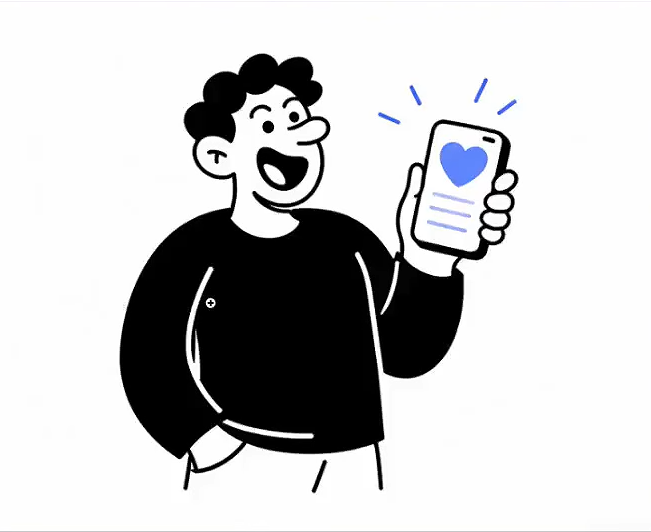
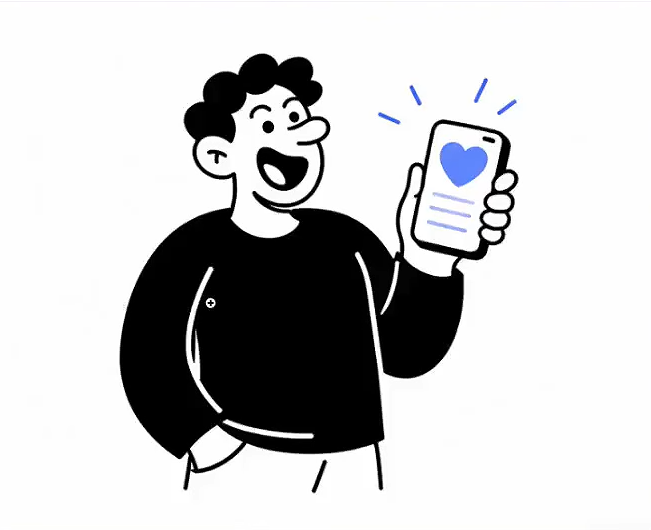
add readme

diff --git a/01)App-Login/app-login/src/app/signUp.tsx b/01)App-Login/app-login/src/app/signUp.tsx
@@ -6,15 +6,15 @@ import { Form } from "@/components/Form/Form"
 import { Footer } from "@/components/Footer/Footer"
 
 
-export default function Index ()  {
+export default function SignUp ()  {
 
 
     return(
-        <KeyboardAvoidingView style={{flex: 1}} behavior={Platform.select( { ios: "padding", android: "height"})}>
-            <ScrollView contentContainerStyle={{flexGrow:1, padding:20}} keyboardShouldPersistTaps="handled">
-                <Header img={signUpImg} />
+        <KeyboardAvoidingView style={styles.container} behavior={Platform.select( { ios: "padding", android: "height"})}>
+            <ScrollView contentContainerStyle={{flexGrow:1}} keyboardShouldPersistTaps="handled">
+                <Header img={signUpImg} type="signUp" />
                 <Form type="signUp" />
-                <Footer link="/" />
+                <Footer link="/" type="signUp" />
             </ScrollView>
         </KeyboardAvoidingView>
     )
@@ -23,5 +23,10 @@ export default function Index ()  {
 
 
 const styles = StyleSheet.create({
+    container:{
+        flex:1,
+        padding:32,
+        backgroundColor:"#FDFDFD"
+    }
 
 })

diff --git a/01)App-Login/app-login/src/components/Header/Header.tsx b/01)App-Login/app-login/src/components/Header/Header.tsx
@@ -2,14 +2,17 @@ import { Image, StyleSheet, Text, View } from "react-native";
 
 
 
-export function Header ({ img }) {
+export function Header ({ img, type }) {
+
+    const title = type === "signIn" ? "Entrar" : "Cadastrar"
+    const subtitle = type === "signIn" ? "Acesse sua conta com email e senha" : "Crie uma conta gratuitamente"
 
 
     return(
         <View>
             <Image source={img} style={styles.img}/>
-            <Text style={styles.title}>Entrar</Text>
-            <Text style={styles.subtitle}>Acesse sua conta com email e senha</Text>
+            <Text style={styles.title}>{title}</Text>
+            <Text style={styles.subtitle}>{subtitle}</Text>
         </View>
     )
 }
@@ -18,12 +21,14 @@ export function Header ({ img }) {
 
 const styles = StyleSheet.create({
     img:{
-        width:300,
-        height:300
+        width:"100%",
+        height:330,
+        resizeMode:"contain",
+        marginTop:62
     },
     title:{
-        fontSize:28,
-        fontWeight:700
+        fontSize:32,
+        fontWeight:900
     },
     subtitle:{
         fontSize:16

diff --git a/01)App-Login/app-login/src/components/Form/Form.tsx b/01)App-Login/app-login/src/components/Form/Form.tsx
@@ -1,4 +1,4 @@
-import { Alert, StyleSheet, View } from "react-native";
+import { Alert, StyleSheet, Text, View } from "react-native";
 import { Input } from "./Input";
 import { Button } from "./Button";
 import { useState } from "react";
@@ -21,11 +21,16 @@ export function Form ({type}) {
 
     const handleSubmit = (type) => {
 
+        const message = type === "signIn" ? "Login" : "Cadastro"
+
+        if(type === "signIn"){
+
+        }
         if(!ValidateForm(inputs.email) || !ValidateForm(inputs.password)){
-            Alert.alert("Login não realizador")
+            Alert.alert(`${message} não realizado`, "Caractere mínimo por campo:3")
         }
         else{
-            Alert.alert("Login realizado", `Logado com ${inputs.email}`)
+            Alert.alert(`${message} realizado`, `Logado com ${inputs.email}`)
         }
 
 
@@ -44,7 +49,7 @@ export function Form ({type}) {
 
 const styles = StyleSheet.create({
     formContainer:{
-        marginTop:20,
-        gap:10
+        marginTop:24,
+        gap:12
     },
 })

diff --git a/01)App-Login/app-login/src/app/index.tsx b/01)App-Login/app-login/src/app/index.tsx
@@ -10,11 +10,11 @@ export default function Index ()  {
 
 
     return(
-        <KeyboardAvoidingView style={{flex: 1}} behavior={Platform.select( { ios: "padding", android: "height"})}>
-            <ScrollView contentContainerStyle={{flexGrow:1, padding:20}} keyboardShouldPersistTaps="handled">
-                <Header img={signInImg} />
+        <KeyboardAvoidingView style={styles.container} behavior={Platform.select( { ios: "padding", android: "height"})}>
+            <ScrollView contentContainerStyle={{flexGrow:1}} keyboardShouldPersistTaps="handled">
+                <Header img={signInImg} type="signIn" />
                 <Form type="signIn" />
-                <Footer link="/signUp" />
+                <Footer link="/signUp" type="signIn" />
             </ScrollView>
         </KeyboardAvoidingView>
     )
@@ -23,5 +23,9 @@ export default function Index ()  {
 
 
 const styles = StyleSheet.create({
-
+    container:{
+        flex:1,
+        padding:32,
+        backgroundColor:"#FDFDFD"
+    }
 })

diff --git a/01)App-Login/app-login/src/components/Footer/Footer.tsx b/01)App-Login/app-login/src/components/Footer/Footer.tsx
@@ -3,13 +3,15 @@ import { Image, StyleSheet, Text, View } from "react-native";
 
 
 
-export function Footer ({ link }) {
+export function Footer ({ link, type }) {
 
+    const message = type === "signIn" ? "Não possui conta?" : "Já possui conta?"
+    const linkMessage  = type === "signIn" ? "Cadastre-se aqui" : "Faça login aqui"
 
     return(
-        <Text>
-            Não possui conta? 
-            <Link href={link} style={styles.link}>Cadastre-se aqui</Link>
+        <Text style={styles.textFooter}>
+            {message} {" "}
+            <Link href={link} style={styles.link}>{linkMessage}</Link>
         </Text>
     )
 }
@@ -17,8 +19,13 @@ export function Footer ({ link }) {
 
 
 const styles = StyleSheet.create({
-
+    textFooter:{
+        textAlign:"center",
+        marginTop:24,
+        color:"#585860",
+        gap:10
+    },
     link:{
-        color:"blue"
+        color:"blue",
     }
 })

diff --git a/01)App-Login/app-login/src/components/Form/Button.tsx b/01)App-Login/app-login/src/components/Form/Button.tsx
@@ -1,4 +1,4 @@
-import { Text, TouchableOpacity } from "react-native";
+import { StyleSheet, Text, TouchableOpacity } from "react-native";
 
 
 
@@ -10,8 +10,24 @@ export function Button ({ type, onPress }){
 
 
     return (
-        <TouchableOpacity onPress={onPress}>
-            <Text>{text}</Text>
+        <TouchableOpacity style={styles.button} activeOpacity={0.7} onPress={() => {onPress(type)}}>
+            <Text style={styles.label}>{text}</Text>
         </TouchableOpacity>
     )
 }
+
+const styles = StyleSheet.create({
+    button:{
+        width:"100%",
+        height:48,
+        backgroundColor: "#3366FF",
+        alignItems: "center",
+        justifyContent: "center",
+        borderRadius: 8
+    },
+    label:{
+        color: "#FFFFFF",
+        fontSize:16,
+        fontWeight: 600
+    }
+})

diff --git a/01)App-Login/app-login/src/components/Form/Input.tsx b/01)App-Login/app-login/src/components/Form/Input.tsx
@@ -15,7 +15,13 @@ export function Input ({ type, ...rest}) {
 const styles = StyleSheet.create({
 
     input:{
-        padding: 5
+        width:"100%",
+        height: 48,
+        borderWidth:1,
+        borderColor: "#DCDCDC",
+        borderRadius: 8,
+        fontSize:16, 
+        paddingLeft: 12
     }
 
 })

diff --git a/readme.md b/readme.md
@@ -1,0 +1,71 @@
+# 📱 Estudos React Native
+
+Repositório dedicado aos projetos desenvolvidos durante meus estudos de **React Native**, com o objetivo de praticar conceitos, explorar funcionalidades e consolidar conhecimentos no desenvolvimento mobile.
+
+Este repositório reúne exclusivamente projetos de estudo. Projetos desenvolvidos para portfólio terão seus próprios repositórios, com documentação e apresentação dedicadas.
+
+---
+
+## 📂 Projetos
+
+### 01. Tela de Login e Cadastro
+
+Projeto desenvolvido acompanhando o vídeo [React Native em 2026: Guia Prático e Completo para Começar do Zero](https://www.youtube.com/watch?v=7uGjAMhI8G4&t=301s), dos canais **Rodrigo Gonçalves e Rocketseat**.
+
+**Prévia do projeto**
+
+| Tela de Login | Tela de Cadastro |
+|:---:|:---:|
+| ![Tela de Login](./01)App-Login/app-login/src/assets/readme/signInSreen.png) | ![Tela de Cadastro](./01)App-Login/app-login/src/assets/readme/signUPpreen.png) |
+
+**Conteúdos aprendidos**
+
+### 📚 Conteúdos aprendidos
+
+**1. Introdução ao React Native**
+- Funcionamento do React Native e sua proposta multiplataforma.
+- Diferenças entre React Native e desenvolvimento web: ausência de DOM, HTML e CSS tradicional.
+- Uso de componentes nativos e agnósticos para construção das interfaces.
+- Reutilização de conceitos do React, como props, state, hooks e eventos.
+
+**2. Expo**
+- O que é o Expo e como ele facilita o desenvolvimento com React Native.
+- Criação e inicialização de projetos utilizando Expo CLI.
+- Utilização do Expo Go para executar e testar aplicações em dispositivos físicos.
+- Conhecimento sobre Development Builds.
+
+**3. Estrutura de projetos**
+- Organização de telas, componentes, constantes, hooks e assets.
+- Função dos principais arquivos de configuração, como `app.json` e `package.json`.
+- Organização do código dentro da pasta `src`.
+- Configuração de caminhos com alias `@`.
+
+**4. Componentes e estilização**
+- Utilização dos componentes fundamentais: `View`, `Text`, `Image`, `TextInput`, `TouchableOpacity`, `ScrollView` e `FlatList`.
+- Estilização com `StyleSheet.create()` e propriedades inline.
+- Diferenças do Flexbox no React Native, incluindo `flexDirection: "column"` como padrão.
+- Uso de propriedades em camelCase e valores numéricos sem unidades de medida.
+- Diferenças na herança e aplicação de estilos em relação ao CSS tradicional.
+
+**5. Propriedades e reutilização**
+- Configuração de campos com `secureTextEntry`, `editable` e `keyboardType`.
+- Controle da opacidade de componentes interativos com `activeOpacity`.
+- Utilização de Rest Properties (`...rest`) e Spread Syntax para repassar propriedades entre componentes.
+
+**6. Navegação com Expo Router**
+- Organização de telas por meio de arquivos e rotas.
+- Utilização de `export default` nas telas.
+- Navegação entre páginas com o componente `Link` e a propriedade `href`.
+
+**7. Eventos e experiência do usuário**
+- Adaptação de eventos para os componentes do React Native.
+- Utilização do `KeyboardAvoidingView` para adaptar a interface à abertura do teclado.
+- Configuração do comportamento do teclado por plataforma com `Platform.select`.
+- Utilização de `keyboardShouldPersistTaps` no `ScrollView` para controlar a interação com os elementos enquanto o teclado está aberto.
+
+## 🛠 Tecnologias
+
+- React Native
+- JavaScript
+- Expo
+
